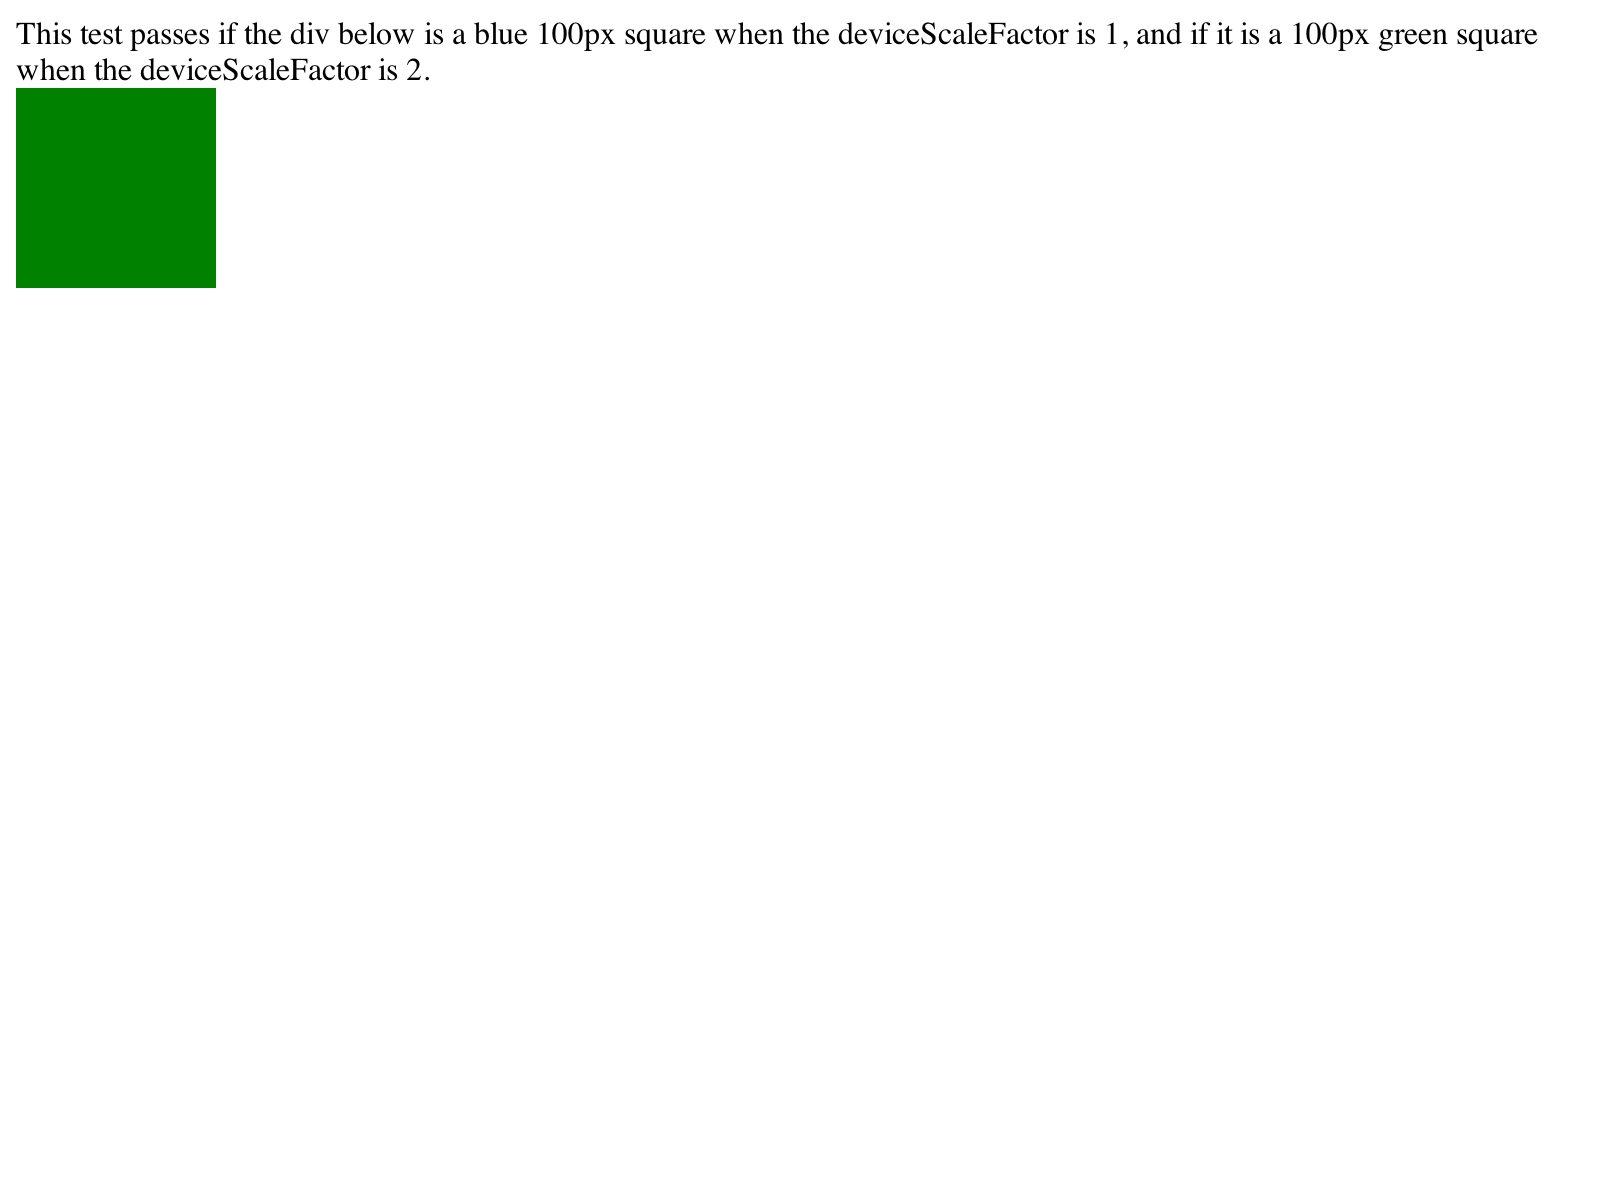
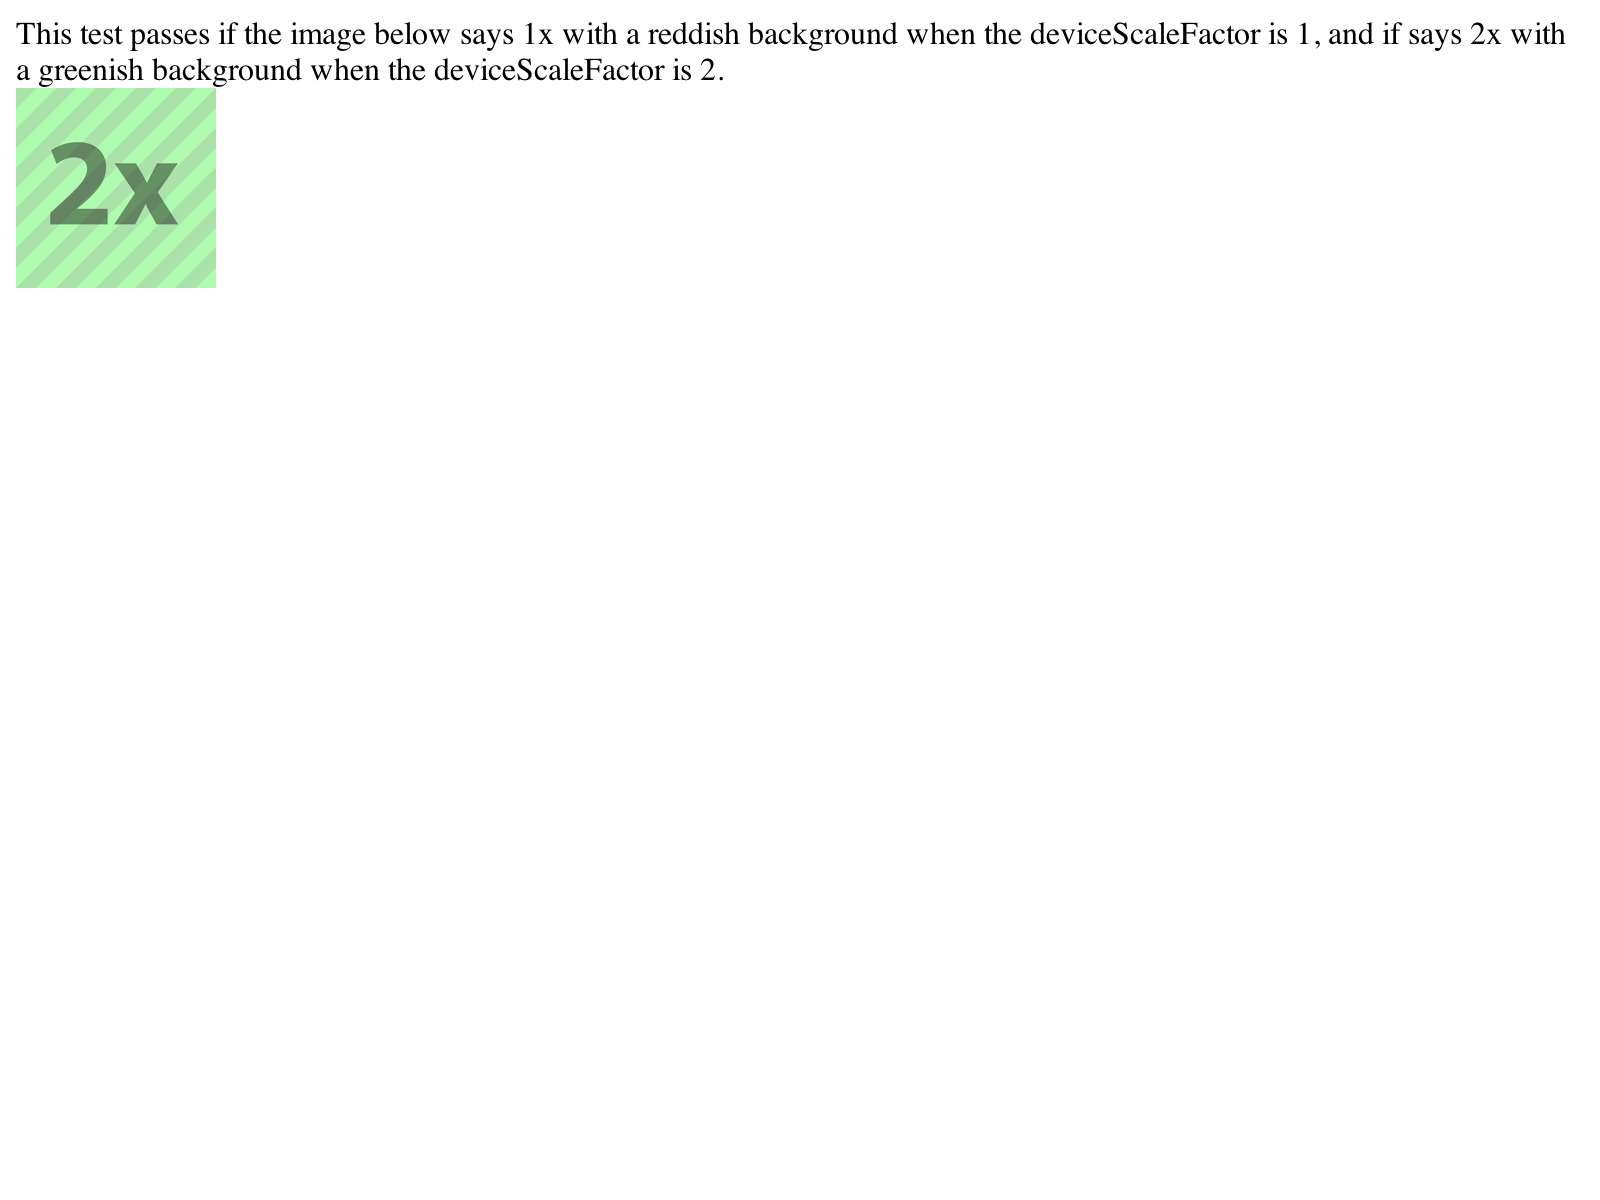
Minor cleanup for srcset tests https://bugs.webkit.org/show_bug.cgi?id=119407
Reviewed by Tim Horton.

Other than small typos and style tweaks, there are three
main changes here:

1. Collect duplicated code into a helper file.
2. Make sure the tests that add or remove the attributes
can run standalone outside of DRT.
3. Update the -simple test with new images that make it
more clear what srcset is doing.

* fast/hidpi/image-srcset-change-dynamically-from-js.html:
* fast/hidpi/image-srcset-invalid-inputs-correct-src.html:
* fast/hidpi/image-srcset-invalid-inputs-except-one.html:
* fast/hidpi/image-srcset-invalid-inputs.html:
* fast/hidpi/image-srcset-only-src-attribute.html:
* fast/hidpi/image-srcset-remove-dynamically-from-js.html:
* fast/hidpi/image-srcset-same-alternative-for-both-attributes.html:
* fast/hidpi/image-srcset-simple.html:
* fast/hidpi/image-srcset-src-selection.html:
* fast/hidpi/resources/image-set-1x.png: Added.
* fast/hidpi/resources/image-set-2x.png: Added.
* fast/hidpi/resources/srcset-helper.js: Added.
* platform/mac/fast/hidpi/image-srcset-simple-expected.png:
* platform/mac/fast/hidpi/image-srcset-simple-expected.txt:

Identifier: 137368@main
git-svn-id: https://svn.webkit.org/repository/webkit/trunk@153625 268f45cc-cd09-0410-ab3c-d52691b4dbfc

Changed region(s): [[0.0, 0.0, 0.9688, 0.2467]]

diff --git a/LayoutTests/fast/hidpi/image-srcset-simple.html b/LayoutTests/fast/hidpi/image-srcset-simple.html
@@ -1,37 +1,10 @@
 <html>
 <head>
-<script>
-    function runTest() {
-        if (!window.testRunner || !window.sessionStorage)
-            return;
-
-        if (!sessionStorage.scaleFactorIsSet) {
-            testRunner.waitUntilDone();
-            testRunner.setBackingScaleFactor(2, scaleFactorIsSet);
-        }
-        
-        if (sessionStorage.pageReloaded && sessionStorage.scaleFactorIsSet) {
-            delete sessionStorage.pageReloaded;
-            delete sessionStorage.scaleFactorIsSet;
-            testRunner.notifyDone();
-        } else {
-            // Right now there is a bug that image-set does not properly deal with dynamic changes to the scale factor,
-            // so to work around that, we must reload the page to get the 2x image.
-            sessionStorage.pageReloaded = true;
-            document.location.reload(true);
-        }
-    }
-    
-    function scaleFactorIsSet() {
-        sessionStorage.scaleFactorIsSet = true;
-    }
-
-    window.onload = runTest;
-</script>
+<script src="resources/srcset-helper.js"></script>
 </head>
 
 <body id="body">
-    <div>This test passes if the div below is a blue 100px square when the deviceScaleFactor is 1, and if it is a 100px green square when the deviceScaleFactor is 2.</div>
-    <img height="100" width="100" src="" srcset="resources/blue-100-px-square.png 1x, resources/deleteButton.png 3x, resources/green-200-px-square.png 2x"></img>
+    <div>This test passes if the image below says 1x with a reddish background when the deviceScaleFactor is 1, and if says 2x with a greenish background when the deviceScaleFactor is 2.</div>
+    <img height="100" width="100" src="" srcset="resources/image-set-1x.png 1x, resources/deleteButton.png 3x, resources/image-set-2x.png 2x"></img>
 </body>
 </html>

diff --git a/LayoutTests/fast/hidpi/image-srcset-change-dynamically-from-js.html b/LayoutTests/fast/hidpi/image-srcset-change-dynamically-from-js.html
@@ -1,31 +1,36 @@
 <html>
 <head>
 <script>
+    function updateSrc() {
+        var img = document.getElementById("foo");
+        img.src = "resources/blue-100-px-square.png"
+        img.srcset = "resources/green-200-px-square.png";
+    }
+
     function runTest() {
-        if (!window.testRunner || !window.sessionStorage)
+        if (!window.testRunner || !window.sessionStorage) {
+            updateSrc();
             return;
+        }
 
         if (!sessionStorage.scaleFactorIsSet) {
             testRunner.waitUntilDone();
             testRunner.setBackingScaleFactor(1, scaleFactorIsSet);
         }
-        
+
         if (sessionStorage.pageReloaded && sessionStorage.scaleFactorIsSet) {
             delete sessionStorage.pageReloaded;
             delete sessionStorage.scaleFactorIsSet;
+            updateSrc();
             testRunner.notifyDone();
-            // Updating srcset attribute on the fly before reloading the page
-            var img = document.getElementById("foo");
-            img.src = "resources/blue-100-px-square.png"
-            img.srcset = "resources/green-200-px-square.png";
         } else {
-            // Right now there is a bug that image-set does not properly deal with dynamic changes to the scale factor,
+            // Right now there is a bug that srcset does not properly deal with dynamic changes to the scale factor,
             // so to work around that, we must reload the page to get the 1x image.
             sessionStorage.pageReloaded = true;
             document.location.reload(true);
         }
     }
-    
+
     function scaleFactorIsSet() {
         sessionStorage.scaleFactorIsSet = true;
     }

diff --git a/LayoutTests/fast/hidpi/image-srcset-remove-dynamically-from-js.html b/LayoutTests/fast/hidpi/image-srcset-remove-dynamically-from-js.html
@@ -1,30 +1,35 @@
 <html>
 <head>
 <script>
+    function updateSrc() {
+        var img = document.getElementById("foo");
+        img.src = "";
+    }
+
     function runTest() {
-        if (!window.testRunner || !window.sessionStorage)
+        if (!window.testRunner || !window.sessionStorage) {
+            updateSrc();
             return;
+        }
 
         if (!sessionStorage.scaleFactorIsSet) {
             testRunner.waitUntilDone();
             testRunner.setBackingScaleFactor(1, scaleFactorIsSet);
         }
-        
+
         if (sessionStorage.pageReloaded && sessionStorage.scaleFactorIsSet) {
             delete sessionStorage.pageReloaded;
             delete sessionStorage.scaleFactorIsSet;
+            updateSrc();
             testRunner.notifyDone();
-            // Updating srcset attribute on the fly before reloading the page
-            var img = document.getElementById("foo");
-            img.src = "";
         } else {
-            // Right now there is a bug that image-set does not properly deal with dynamic changes to the scale factor,
+            // Right now there is a bug that srcset does not properly deal with dynamic changes to the scale factor,
             // so to work around that, we must reload the page to get the 1x image.
             sessionStorage.pageReloaded = true;
             document.location.reload(true);
         }
     }
-    
+
     function scaleFactorIsSet() {
         sessionStorage.scaleFactorIsSet = true;
     }

diff --git a/LayoutTests/fast/hidpi/image-srcset-invalid-inputs-correct-src.html b/LayoutTests/fast/hidpi/image-srcset-invalid-inputs-correct-src.html
@@ -1,33 +1,9 @@
 <html>
 <head>
 <script>
-    function runTest() {
-        if (!window.testRunner || !window.sessionStorage)
-            return;
-
-        if (!sessionStorage.scaleFactorIsSet) {
-            testRunner.waitUntilDone();
-            testRunner.setBackingScaleFactor(1, scaleFactorIsSet);
-        }
-        
-        if (sessionStorage.pageReloaded && sessionStorage.scaleFactorIsSet) {
-            delete sessionStorage.pageReloaded;
-            delete sessionStorage.scaleFactorIsSet;
-            testRunner.notifyDone();
-        } else {
-            // Right now there is a bug that image-set does not properly deal with dynamic changes to the scale factor,
-            // so to work around that, we must reload the page to get the 2x image.
-            sessionStorage.pageReloaded = true;
-            document.location.reload(true);
-        }
-    }
-    
-    function scaleFactorIsSet() {
-        sessionStorage.scaleFactorIsSet = true;
-    }
-
-    window.onload = runTest;
+var targetScaleFactor = 1;
 </script>
+<script src="resources/srcset-helper.js"></script>
 </head>
 
 <body id="body">

diff --git a/LayoutTests/fast/hidpi/image-srcset-same-alternative-for-both-attributes.html b/LayoutTests/fast/hidpi/image-srcset-same-alternative-for-both-attributes.html
@@ -1,33 +1,9 @@
 <html>
 <head>
 <script>
-    function runTest() {
-        if (!window.testRunner || !window.sessionStorage)
-            return;
-
-        if (!sessionStorage.scaleFactorIsSet) {
-            testRunner.waitUntilDone();
-            testRunner.setBackingScaleFactor(1, scaleFactorIsSet);
-        }
-        
-        if (sessionStorage.pageReloaded && sessionStorage.scaleFactorIsSet) {
-            delete sessionStorage.pageReloaded;
-            delete sessionStorage.scaleFactorIsSet;
-            testRunner.notifyDone();
-        } else {
-            // Right now there is a bug that image-set does not properly deal with dynamic changes to the scale factor,
-            // so to work around that, we must reload the page to get the 2x image.
-            sessionStorage.pageReloaded = true;
-            document.location.reload(true);
-        }
-    }
-    
-    function scaleFactorIsSet() {
-        sessionStorage.scaleFactorIsSet = true;
-    }
-
-    window.onload = runTest;
+var targetScaleFactor = 1;
 </script>
+<script src="resources/srcset-helper.js"></script>
 </head>
 
 <body id="body">

diff --git a/LayoutTests/fast/hidpi/image-srcset-src-selection.html b/LayoutTests/fast/hidpi/image-srcset-src-selection.html
@@ -1,33 +1,9 @@
 <html>
 <head>
 <script>
-    function runTest() {
-        if (!window.testRunner || !window.sessionStorage)
-            return;
-
-        if (!sessionStorage.scaleFactorIsSet) {
-            testRunner.waitUntilDone();
-            testRunner.setBackingScaleFactor(1, scaleFactorIsSet);
-        }
-        
-        if (sessionStorage.pageReloaded && sessionStorage.scaleFactorIsSet) {
-            delete sessionStorage.pageReloaded;
-            delete sessionStorage.scaleFactorIsSet;
-            testRunner.notifyDone();
-        } else {
-            // Right now there is a bug that image-set does not properly deal with dynamic changes to the scale factor,
-            // so to work around that, we must reload the page to get the 1x image.
-            sessionStorage.pageReloaded = true;
-            document.location.reload(true);
-        }
-    }
-    
-    function scaleFactorIsSet() {
-        sessionStorage.scaleFactorIsSet = true;
-    }
-
-    window.onload = runTest;
+var targetScaleFactor = 1;
 </script>
+<script src="resources/srcset-helper.js"></script>
 </head>
 
 <body id="body">

diff --git a/LayoutTests/fast/hidpi/image-srcset-invalid-inputs-except-one.html b/LayoutTests/fast/hidpi/image-srcset-invalid-inputs-except-one.html
@@ -1,33 +1,6 @@
 <html>
 <head>
-<script>
-    function runTest() {
-        if (!window.testRunner || !window.sessionStorage)
-            return;
-
-        if (!sessionStorage.scaleFactorIsSet) {
-            testRunner.waitUntilDone();
-            testRunner.setBackingScaleFactor(2, scaleFactorIsSet);
-        }
-        
-        if (sessionStorage.pageReloaded && sessionStorage.scaleFactorIsSet) {
-            delete sessionStorage.pageReloaded;
-            delete sessionStorage.scaleFactorIsSet;
-            testRunner.notifyDone();
-        } else {
-            // Right now there is a bug that image-set does not properly deal with dynamic changes to the scale factor,
-            // so to work around that, we must reload the page to get the 2x image.
-            sessionStorage.pageReloaded = true;
-            document.location.reload(true);
-        }
-    }
-    
-    function scaleFactorIsSet() {
-        sessionStorage.scaleFactorIsSet = true;
-    }
-
-    window.onload = runTest;
-</script>
+<script src="resources/srcset-helper.js"></script>
 </head>
 
 <body id="body">

diff --git a/LayoutTests/fast/hidpi/image-srcset-invalid-inputs.html b/LayoutTests/fast/hidpi/image-srcset-invalid-inputs.html
@@ -1,33 +1,6 @@
 <html>
 <head>
-<script>
-    function runTest() {
-        if (!window.testRunner || !window.sessionStorage)
-            return;
-
-        if (!sessionStorage.scaleFactorIsSet) {
-            testRunner.waitUntilDone();
-            testRunner.setBackingScaleFactor(2, scaleFactorIsSet);
-        }
-        
-        if (sessionStorage.pageReloaded && sessionStorage.scaleFactorIsSet) {
-            delete sessionStorage.pageReloaded;
-            delete sessionStorage.scaleFactorIsSet;
-            testRunner.notifyDone();
-        } else {
-            // Right now there is a bug that image-set does not properly deal with dynamic changes to the scale factor,
-            // so to work around that, we must reload the page to get the 2x image.
-            sessionStorage.pageReloaded = true;
-            document.location.reload(true);
-        }
-    }
-    
-    function scaleFactorIsSet() {
-        sessionStorage.scaleFactorIsSet = true;
-    }
-
-    window.onload = runTest;
-</script>
+<script src="resources/srcset-helper.js"></script>
 </head>
 
 <body id="body">

diff --git a/LayoutTests/fast/hidpi/image-srcset-only-src-attribute.html b/LayoutTests/fast/hidpi/image-srcset-only-src-attribute.html
@@ -1,33 +1,6 @@
 <html>
 <head>
-<script>
-    function runTest() {
-        if (!window.testRunner || !window.sessionStorage)
-            return;
-
-        if (!sessionStorage.scaleFactorIsSet) {
-            testRunner.waitUntilDone();
-            testRunner.setBackingScaleFactor(2, scaleFactorIsSet);
-        }
-        
-        if (sessionStorage.pageReloaded && sessionStorage.scaleFactorIsSet) {
-            delete sessionStorage.pageReloaded;
-            delete sessionStorage.scaleFactorIsSet;
-            testRunner.notifyDone();
-        } else {
-            // Right now there is a bug that image-set does not properly deal with dynamic changes to the scale factor,
-            // so to work around that, we must reload the page to get the 2x image.
-            sessionStorage.pageReloaded = true;
-            document.location.reload(true);
-        }
-    }
-    
-    function scaleFactorIsSet() {
-        sessionStorage.scaleFactorIsSet = true;
-    }
-
-    window.onload = runTest;
-</script>
+<script src="resources/srcset-helper.js"></script>
 </head>
 
 <body id="body">

diff --git a/LayoutTests/fast/hidpi/resources/srcset-helper.js b/LayoutTests/fast/hidpi/resources/srcset-helper.js
@@ -1,0 +1,29 @@
+function runTest() {
+    if (!window.testRunner || !window.sessionStorage)
+        return;
+
+    if (!window.targetScaleFactor)
+        window.targetScaleFactor = 2;
+
+    if (!sessionStorage.scaleFactorIsSet) {
+        testRunner.waitUntilDone();
+        testRunner.setBackingScaleFactor(targetScaleFactor, scaleFactorIsSet);
+    }
+
+    if (sessionStorage.pageReloaded && sessionStorage.scaleFactorIsSet) {
+        delete sessionStorage.pageReloaded;
+        delete sessionStorage.scaleFactorIsSet;
+        testRunner.notifyDone();
+    } else {
+        // Right now there is a bug that srcset does not properly deal with dynamic changes to the scale factor,
+        // so to work around that, we must reload the page to get the new image.
+        sessionStorage.pageReloaded = true;
+        document.location.reload(true);
+    }
+}
+
+function scaleFactorIsSet() {
+    sessionStorage.scaleFactorIsSet = true;
+}
+
+window.addEventListener("load", runTest, false);
